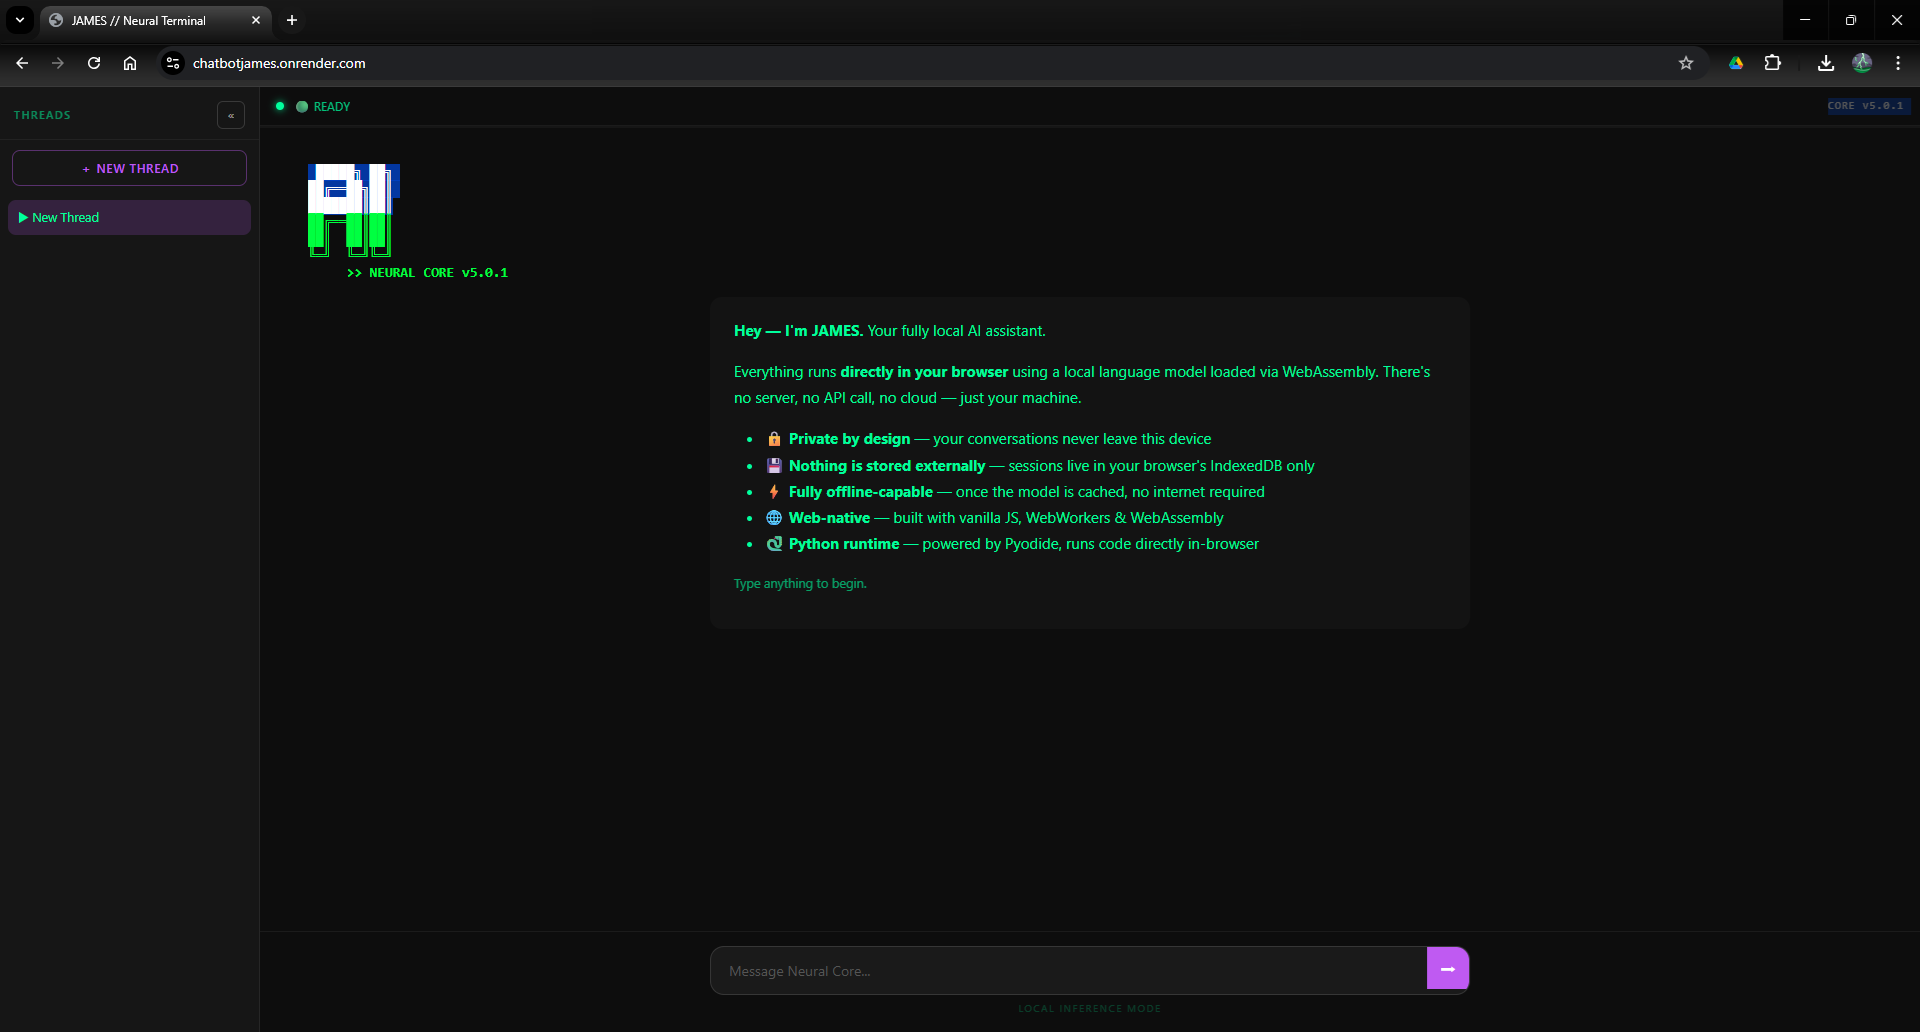
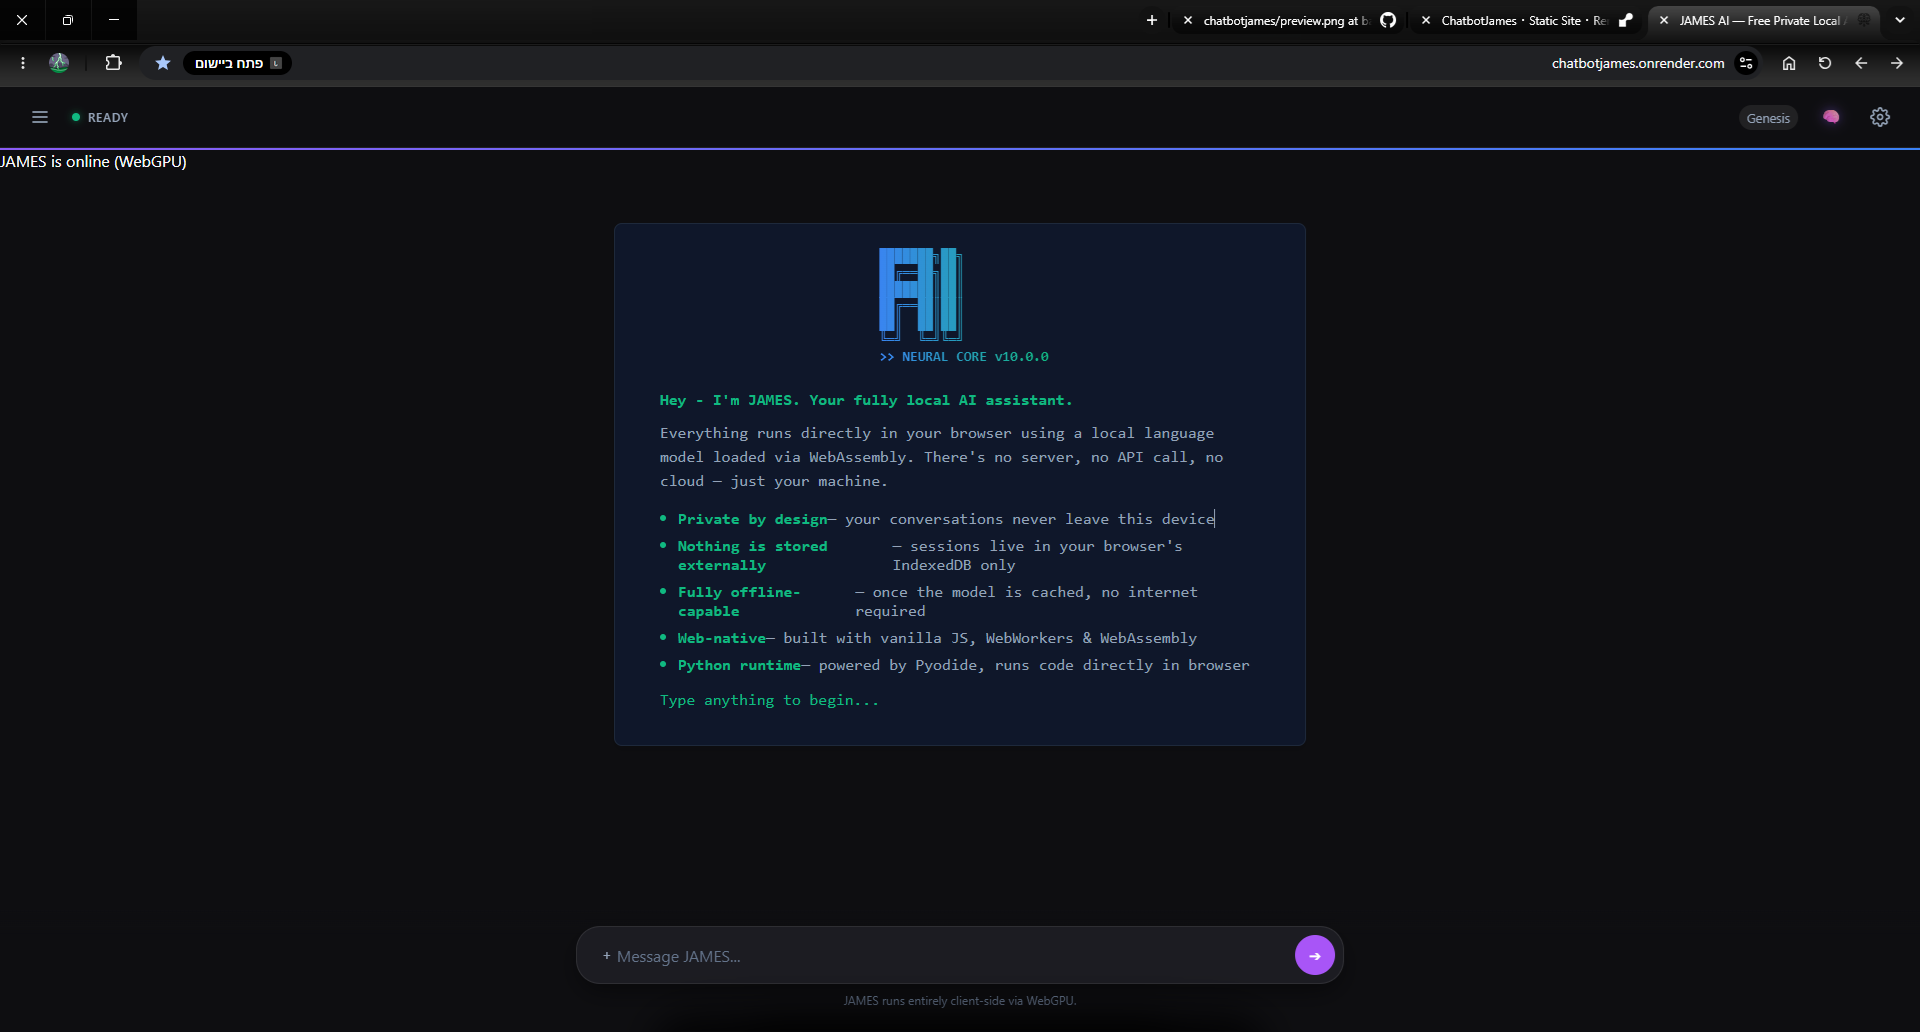
chore: update preview image for chatbot interface

diff --git a/build.js b/build.js
@@ -1,1 +1,1 @@
-export const BUILD_NUMBER = 835;
+export const BUILD_NUMBER = 836;
